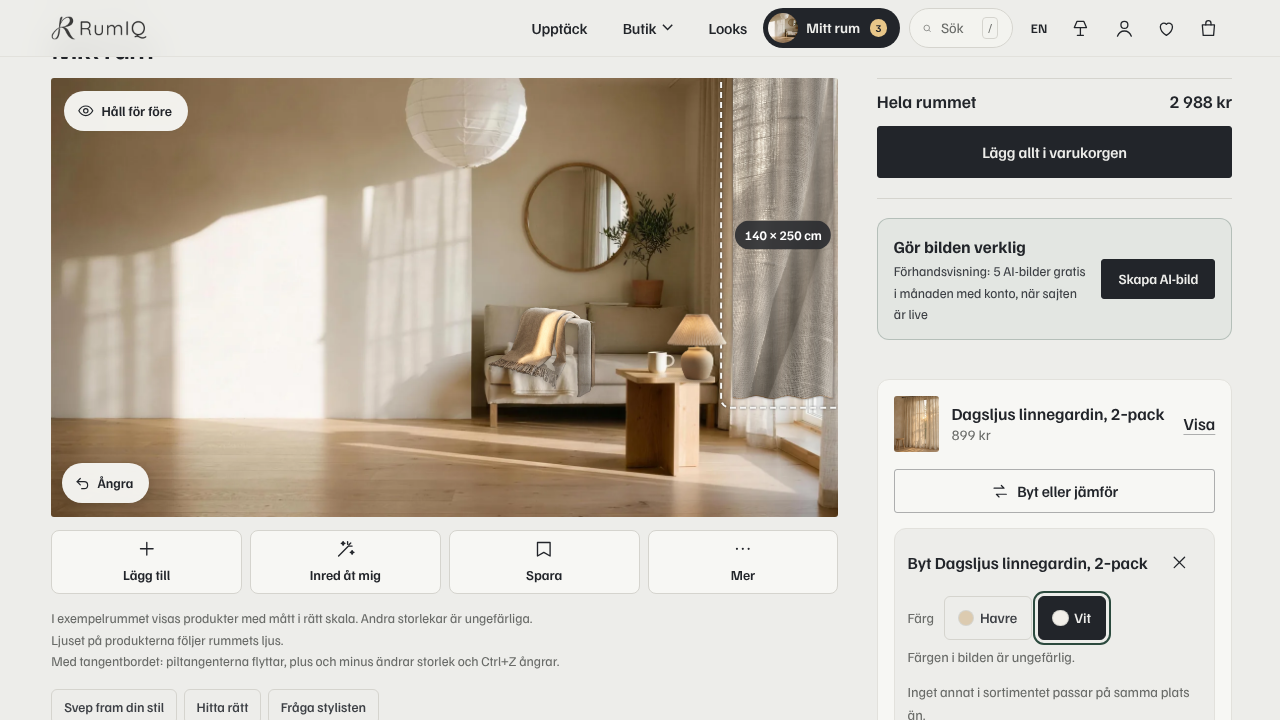
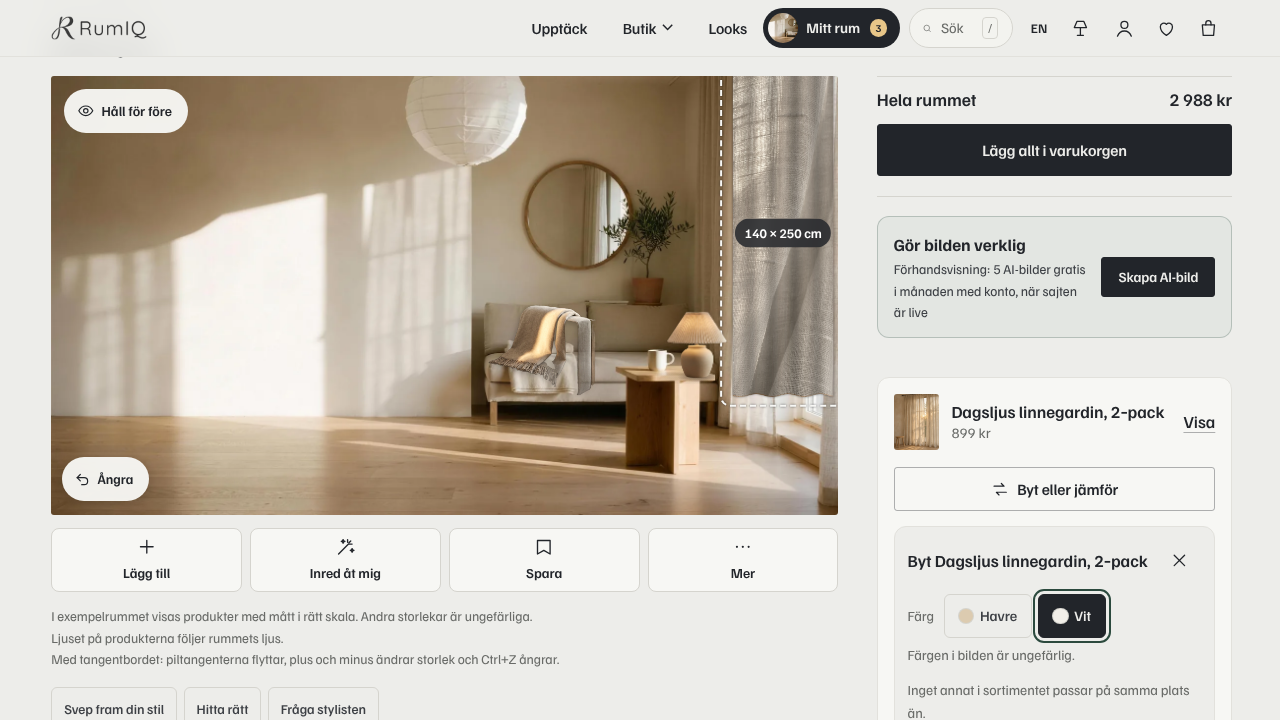
studio2 rum: the room's word goes over the picture where the chosen thing is not, and a phone returns to the picture after a swap (minor 7, keeps r2 design: no button covered)
Claude-Session: https://claude.ai/code/session_01Kh8e8WFzY5uhWN3vnvSAzt

diff --git a/assets/js/room.js b/assets/js/room.js
@@ -1146,8 +1146,12 @@
         addEventListener("resize", onResize);
         // messages come in over the top edge of the room picture (site.css), so they cover neither the title nor the controls
         const rootS = document.documentElement.style; let tRaf = 0;
-        const toastAt = () => { tRaf = 0; const r = stage.getBoundingClientRect(); rootS.setProperty("--rm-toast-top", Math.round(Math.min(innerHeight * 0.5, r.top + 12)) + "px"); const hb = $("#rmHold", root).getBoundingClientRect(); rootS.setProperty("--rm-toast-l", Math.round(Math.max(0, (hb.width ? hb.right : r.left) + 8)) + "px"); /* beside Håll för före, not over it */ rootS.setProperty("--rm-toast-r", Math.round(Math.max(0, innerWidth - r.right + 8)) + "px"); };
+        const toastAt = () => { tRaf = 0; const r = stage.getBoundingClientRect(); let tp = Math.min(innerHeight * 0.5, r.top + 12);
+          // the word goes where the thing you just chose or swapped is not: over the top of the picture, or lower when the thing stands there (studio2 review minor 7)
+          const se = $(".rm-item.sel", wrap), tH = Math.max(($("#toast") || {}).offsetHeight || 0, 64) + 8; if (se) { const q = se.getBoundingClientRect(); if (q.top < tp + tH && q.bottom > tp) { const low = Math.min(innerHeight, r.bottom) - (innerWidth <= 900 ? 66 : 12) - tH; if (low > q.bottom + 4) tp = low; else if (q.top - tH - 4 > Math.max(r.top, 0) + 4) tp = q.top - tH - 4; } }
+          rootS.setProperty("--rm-toast-top", Math.round(tp) + "px"); const hb = $("#rmHold", root).getBoundingClientRect(); rootS.setProperty("--rm-toast-l", Math.round(Math.max(0, (hb.width ? hb.right : r.left) + 8)) + "px"); /* beside Håll för före, not over it */ rootS.setProperty("--rm-toast-r", Math.round(Math.max(0, innerWidth - r.right + 8)) + "px"); };
         const onScroll = () => { if (!tRaf) tRaf = requestAnimationFrame(toastAt); };
+        const tObs = new MutationObserver(() => { if ($("#toast").classList.contains("show")) setTimeout(toastAt, 360); toastAt(); }); if ($("#toast")) tObs.observe($("#toast"), { attributes: true, attributeFilter: ["class"] }); // placed again once the camera has glided to the thing
         addEventListener("scroll", onScroll, { passive: true });
         // see the room as it is: hold the button on the photo, or switch it on in the menu
         const before = $("#rmBefore", root);
@@ -1261,7 +1265,8 @@
         /* on a computer the panel stands beside the picture, under the thing's own card, so the room stays in sight while you
            choose (studio2 review M4); a phone has it under the picture's buttons. After a change the thing is kept in view */
         const placeSwap = () => { const desk = innerWidth > 900 && $(".rm-bytdesk", root); if (desk) { if (swapBox.previousElementSibling !== desk) desk.after(swapBox); } else if (swapBox.previousElementSibling !== $("#rmAct", root)) $("#rmAct", root).after(swapBox); };
-        const showSel = () => setTimeout(() => { const el = sel && $(`.rm-item[data-h="${sel}"]`, wrap); if (!el || view.on) return; const r = el.getBoundingClientRect(), top = ((document.querySelector("header") || {}).offsetHeight || 58) + 8;
+        const showSel = () => setTimeout(() => { const el = sel && $(`.rm-item[data-h="${sel}"]`, wrap); if (!el) return; const r = el.getBoundingClientRect(), top = ((document.querySelector("header") || {}).offsetHeight || 58) + 8;
+          if (view.on) { if (r.bottom < top + 24 || r.top > innerHeight - 24) scrollBy({ top: stage.getBoundingClientRect().top - top + 8, behavior: calm() ? "auto" : "smooth" }); return; } // a phone: back to the picture when the thing is out of sight
           if (r.top < top) scrollBy({ top: r.top - top, behavior: calm() ? "auto" : "smooth" }); else if (r.bottom > innerHeight - 8 && r.height < innerHeight - top) scrollBy({ top: r.bottom - innerHeight + 16, behavior: calm() ? "auto" : "smooth" }); }, 80);
         const openSwap = (h, focus) => { if (!h) return; if (sel !== h) select(h); swap.h = h; swap.cmp = false; swap.pick = []; placeSwap(); paintSwap(); if (innerWidth <= 900) { // a phone: the picture at the top and the panel under its buttons, both in sight (studio2 review M4)
             const top = ((document.querySelector("header") || {}).offsetHeight || 58), sy = stage.getBoundingClientRect().top + scrollY - top, pb = swapBox.getBoundingClientRect().bottom + scrollY;
@@ -1370,7 +1375,7 @@
         if (sel) { const it = R.scene().find((x) => x.h === sel); if (it) lookAt([it]); }
         R._swapLive = (h, colour) => { if (!root.isConnected || !R.inScene(h)) return; const it = R.scene().find((x) => x.h === h); if (it) lookAt([it]); openSwap(h, colour ? "[data-swv][aria-pressed=true]" : ".rm-alt"); };
         { const sw0 = RQ.ss && RQ.ss.get("rumiq-room-swap"); if (sw0) { RQ.ss.set("rumiq-room-swap", ""); const [sw, c] = sw0.split("|"); if (R.inScene(sw)) setTimeout(() => R._swapLive(sw, c === "c"), 300); } }
-        return () => { R._swapLive = null; document.removeEventListener("keydown", escCmp, true); cmpEl.remove(); document.removeEventListener("rq-cookie", onCookie); document.removeEventListener("keydown", escMeasure); document.removeEventListener("rq-room", onRoom); document.removeEventListener("pointerdown", away); document.removeEventListener("keydown", undoKey); removeEventListener("resize", onResize); removeEventListener("scroll", onScroll); ["--rm-toast-top", "--rm-toast-l", "--rm-toast-r"].forEach((k) => rootS.removeProperty(k)); R.closePicker(); document.body.classList.remove("on-room", "room-empty"); };
+        return () => { tObs.disconnect(); R._swapLive = null; document.removeEventListener("keydown", escCmp, true); cmpEl.remove(); document.removeEventListener("rq-cookie", onCookie); document.removeEventListener("keydown", escMeasure); document.removeEventListener("rq-room", onRoom); document.removeEventListener("pointerdown", away); document.removeEventListener("keydown", undoKey); removeEventListener("resize", onResize); removeEventListener("scroll", onScroll); ["--rm-toast-top", "--rm-toast-l", "--rm-toast-r"].forEach((k) => rootS.removeProperty(k)); R.closePicker(); document.body.classList.remove("on-room", "room-empty"); };
       },
     };
   };

diff --git a/assets/css/site.css b/assets/css/site.css
@@ -735,8 +735,6 @@ input[type=search]::-webkit-search-cancel-button,input[type=search]::-webkit-sea
    the room picture (room.js keeps --rm-toast-* in step with the picture), never higher than just under the header */
 body:has(#rmStage) .toast{top:max(calc(var(--nav-h) + .75rem),var(--rm-toast-top,0px));left:var(--rm-toast-l,0px);right:var(--rm-toast-r,0px);bottom:auto;transform:translateY(-1rem)}
 body:has(#rmStage) .toast.show{transform:none}
-/* phones: the picture is the result, so a word about it waits at the bottom, above the room's bar, never over the room (studio2 review minor 7) */
-@media (max-width:900px){body:has(#rmStage) .toast{top:auto;left:0;right:0;bottom:calc(var(--toast-lift,0px) + .6rem + env(safe-area-inset-bottom));transform:translateY(1.2rem)}}
 .toast a,.toast button{color:inherit;font-weight:600;white-space:nowrap}
 .toast button{border:0;background:none;padding:0;font:inherit;font-weight:600;text-decoration:underline;text-underline-offset:.2em}
 .toast a,.toast button{display:inline-flex;align-items:center;min-height:2.75rem;margin:-.85rem 0;padding-inline:.3rem}
